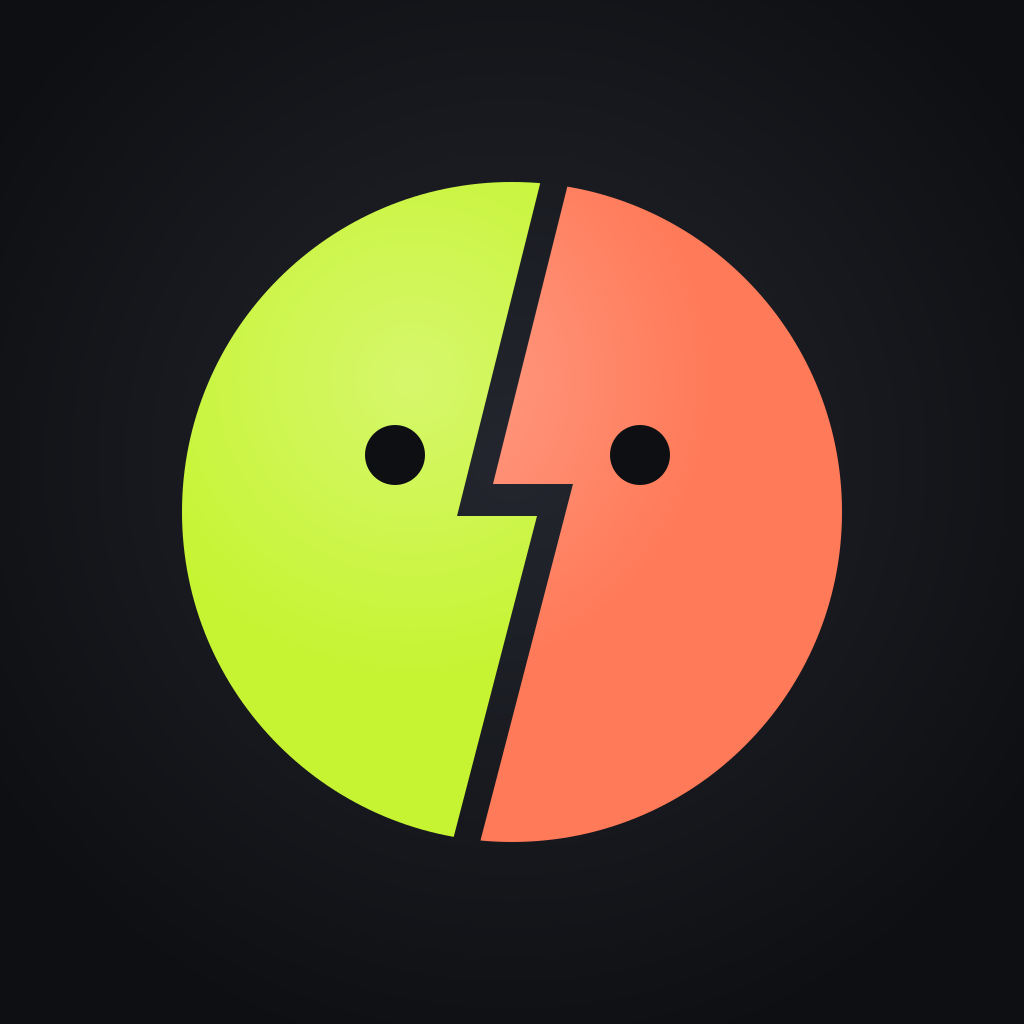
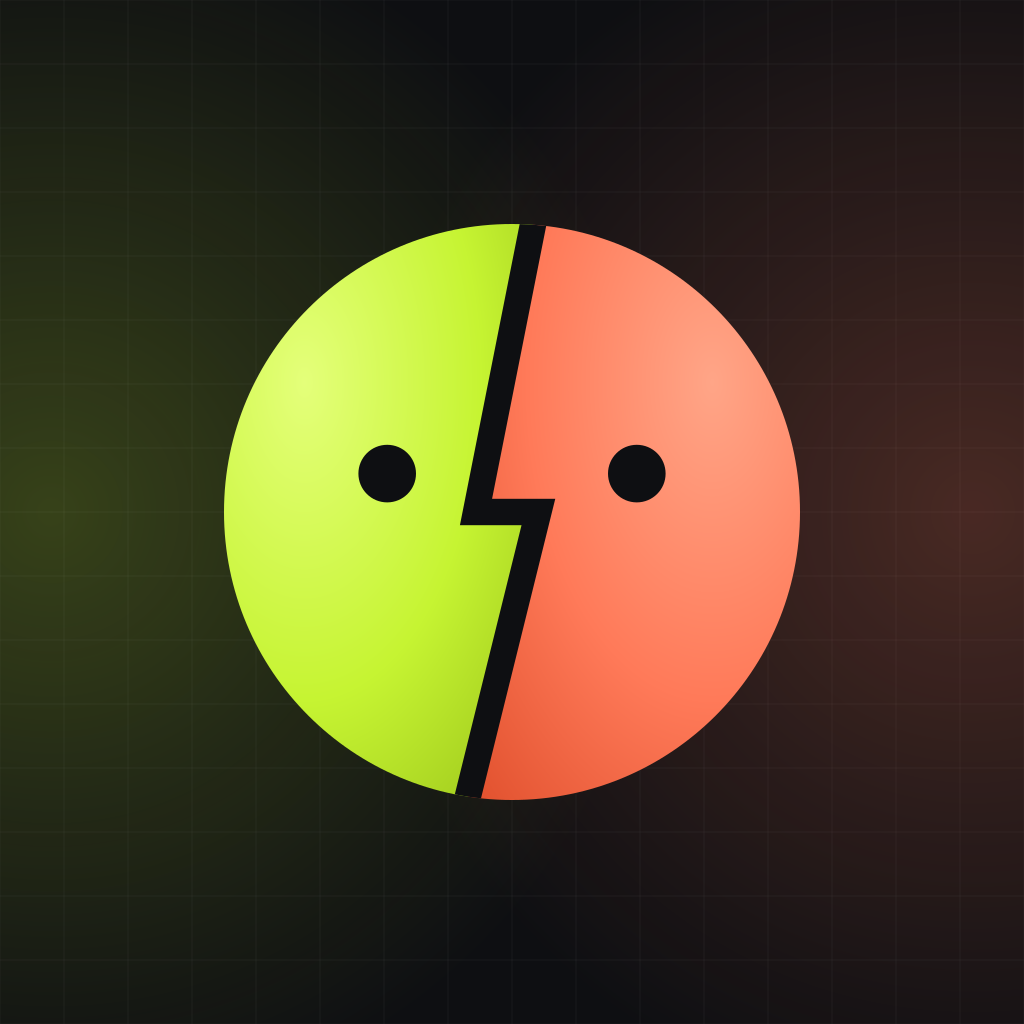
Nouveau nom Kontra, icône, écran d'accueil et animation d'ouverture
Claude-Session: https://claude.ai/code/session_01G7iX6MpbZnrFugrgUMHm6x

diff --git a/src/Intro.js b/src/Intro.js
@@ -5,9 +5,10 @@ import { colors } from './theme';
 const LEFT = require('../assets/intro-left.png');
 const RIGHT = require('../assets/intro-right.png');
 const BOLT = require('../assets/intro-bolt.png');
+const BG = require('../assets/intro-bg.png');
 
 // Animation d'ouverture : ta moitié (vert) et celle du rival (corail) s'entrechoquent,
-// un éclair jaillit, puis le nom de l'app apparaît. Environ 2 secondes.
+// un éclair jaillit, puis le nom de l'app (Kontra) apparaît. Environ 2 secondes.
 export default function Intro({ onDone }) {
   const { width } = useWindowDimensions();
   const size = Math.min(width * 0.72, 320);
@@ -17,9 +18,11 @@ export default function Intro({ onDone }) {
   const pulse = useRef(new Animated.Value(1)).current;
   const word = useRef(new Animated.Value(0)).current;
   const fade = useRef(new Animated.Value(1)).current;
+  const bgIn = useRef(new Animated.Value(0)).current;
 
   useEffect(() => {
     const anim = Animated.sequence([
+      Animated.timing(bgIn, { toValue: 1, duration: 260, useNativeDriver: true }),
       Animated.timing(slide, { toValue: 1, duration: 520, easing: Easing.in(Easing.cubic), useNativeDriver: true }),
       Animated.parallel([
         Animated.sequence([
@@ -48,6 +51,7 @@ export default function Intro({ onDone }) {
 
   return (
     <Animated.View style={[StyleSheet.absoluteFill, styles.root, { opacity: fade }]} pointerEvents="none">
+      <Animated.Image source={BG} resizeMode="cover" style={[StyleSheet.absoluteFill, { width: '100%', height: '100%', opacity: bgIn }]} />
       <Animated.View style={{ width: size, height: size, transform: [{ scale: pulse }] }}>
         <Animated.Image source={LEFT} style={[styles.img, { transform: [{ translateX: leftX }, { rotate: tilt }] }]} />
         <Animated.Image source={RIGHT} style={[styles.img, { transform: [{ translateX: rightX }, { rotate: tiltR }] }]} />
@@ -55,9 +59,9 @@ export default function Intro({ onDone }) {
       </Animated.View>
       <Animated.View style={{ alignItems: 'center', opacity: word, transform: [{ translateY: wordY }] }}>
         <Text style={styles.word}>
-          Pique<Text style={{ color: colors.me }}>Miroir</Text>
+          KON<Text style={{ color: colors.rival }}>TRA</Text>
         </Text>
-        <Text style={styles.tag}>Bats ton rival. Chaque jour.</Text>
+        <Text style={styles.tag}>Ton rival IA. Chaque jour.</Text>
       </Animated.View>
     </Animated.View>
   );
@@ -66,6 +70,6 @@ export default function Intro({ onDone }) {
 const styles = StyleSheet.create({
   root: { backgroundColor: colors.bg, alignItems: 'center', justifyContent: 'center', zIndex: 100 },
   img: { position: 'absolute', width: '100%', height: '100%' },
-  word: { color: '#F2F3F5', fontSize: 40, fontWeight: '900', letterSpacing: -1, marginTop: 8 },
+  word: { color: '#F2F3F5', fontSize: 46, fontWeight: '900', letterSpacing: 6, marginTop: 12 },
   tag: { color: colors.muted, fontSize: 16, fontWeight: '600', marginTop: 6 },
 });

diff --git a/src/screens/OnboardingScreen.js b/src/screens/OnboardingScreen.js
@@ -1,14 +1,17 @@
 import { useEffect, useState } from 'react';
-import { ActivityIndicator, KeyboardAvoidingView, Platform, Pressable, ScrollView, Text, TextInput, View } from 'react-native';
+import { ActivityIndicator, Image, KeyboardAvoidingView, Platform, Pressable, ScrollView, Text, TextInput, View } from 'react-native';
 import { colors } from '../theme';
 import { PrimaryButton, SecondaryButton, styles as ui } from '../components';
 import { GOALS, LB_PER_KG, LEVELS, RIVAL_NAMES, TONES, computeGoals } from '../profile';
 import { say } from '../rival';
 
+const WELCOME = require('../../assets/welcome.png');
+
 const STEPS = ['name', 'goal', 'weight', 'level', 'rival', 'creating', 'ready'];
 
 export default function OnboardingScreen({ initial, onDone, onCancel }) {
   const [step, setStep] = useState(0);
+  const [welcome, setWelcome] = useState(!initial); // écran d'accueil : seulement à la première ouverture
   const [name, setName] = useState(initial?.name ?? '');
   const [goal, setGoal] = useState(initial?.goal ?? null);
   const [unit, setUnit] = useState(initial?.unit ?? 'kg');
@@ -45,6 +48,8 @@ export default function OnboardingScreen({ initial, onDone, onCancel }) {
   const next = () => setStep((s) => s + 1);
   const back = () => (step === 0 ? onCancel?.() : setStep((s) => s - 1));
   const questionCount = 5;
+
+  if (welcome) return <Welcome onStart={() => setWelcome(false)} />;
 
   return (
     <KeyboardAvoidingView style={{ flex: 1 }} behavior={Platform.OS === 'ios' ? 'padding' : undefined}>
@@ -199,6 +204,27 @@ const inputStyle = {
   fontSize: 18,
   paddingHorizontal: 16,
 };
+
+function Welcome({ onStart }) {
+  return (
+    <ScrollView contentContainerStyle={{ flexGrow: 1, padding: 24, gap: 22, justifyContent: 'center' }}>
+      <Image
+        source={WELCOME}
+        style={{ width: '100%', aspectRatio: 1080 / 1000, borderRadius: 28 }}
+        accessibilityLabel="Toi contre ton rival IA"
+      />
+      <View style={{ gap: 10 }}>
+        <Text style={{ color: colors.me, fontSize: 13, fontWeight: '800', letterSpacing: 2 }}>KONTRA</Text>
+        <Text style={[ui.title, { fontSize: 32, lineHeight: 38 }]}>Ton rival IA t'attend.</Text>
+        <Text style={{ color: colors.soft, fontSize: 16, lineHeight: 23 }}>
+          Chaque jour, un duel : séance, protéines, pas. Bats-le, ou il te le rappellera.
+        </Text>
+      </View>
+      <PrimaryButton label="Créer mon rival" onPress={onStart} />
+      <Text style={{ color: colors.muted, fontSize: 13, textAlign: 'center' }}>1 minute · sans compte</Text>
+    </ScrollView>
+  );
+}
 
 function Question({ title, hint, children }) {
   return (

diff --git a/src/screens/WeekScreen.js b/src/screens/WeekScreen.js
@@ -17,7 +17,7 @@ export default function WeekScreen({ week, lastWeek }) {
   const remaining = week.days.filter((d) => d.state === 'future' || d.state === 'today').length;
   const share = () =>
     Share.share({
-      message: `Cette semaine sur PiqueMiroir : ${week.me}–${week.nova} contre mon rival IA ${RIVAL_NAME}. Et toi, tu tiendrais ?`,
+      message: `Cette semaine sur Kontra : ${week.me}–${week.nova} contre mon rival IA ${RIVAL_NAME}. Et toi, tu tiendrais ?`,
     });
 
   const headline = leading
@@ -39,7 +39,7 @@ export default function WeekScreen({ week, lastWeek }) {
 
       <View style={{ borderRadius: 28, backgroundColor: colors.me, padding: 24, gap: 18 }}>
         <View style={{ flexDirection: 'row', justifyContent: 'space-between', alignItems: 'center' }}>
-          <Text style={{ fontWeight: '800', fontSize: 15, color: colors.bg }}>PiqueMiroir</Text>
+          <Text style={{ fontWeight: '800', fontSize: 15, color: colors.bg }}>Kontra</Text>
           <Text style={{ fontSize: 12, fontWeight: '700', color: colors.bg, backgroundColor: 'rgba(14,15,18,0.12)', borderRadius: 999, paddingHorizontal: 10, paddingVertical: 5, overflow: 'hidden' }}>
             {remaining === 0 ? 'Semaine terminée' : 'Semaine en cours'}
           </Text>

diff --git a/src/screens/PaywallScreen.js b/src/screens/PaywallScreen.js
@@ -72,7 +72,7 @@ export default function PaywallScreen({ onReset, onEditProfile }) {
         </View>
       ) : (
         <>
-          <Title kicker="PiqueMiroir Premium">{`${RIVAL_NAME} t'attend.\nEt toi ?`}</Title>
+          <Title kicker="Kontra Premium">{`${RIVAL_NAME} t'attend.\nEt toi ?`}</Title>
           <Text style={{ color: colors.soft, fontSize: 15, lineHeight: 21 }}>
             Version gratuite : {FREE_PHOTOS_PER_DAY} analyses de repas par jour. Premium enlève toutes les limites.
           </Text>

diff --git a/App.js b/App.js
@@ -47,8 +47,8 @@ function buildWeek(state, todayKey, refKey = todayKey) {
   };
 }
 
-// Après plus d'une minute en arrière-plan, l'animation d'ouverture est rejouée.
-const REPLAY_AFTER_MS = 60 * 1000;
+// Après plus de 15 secondes en arrière-plan, l'animation d'ouverture est rejouée.
+const REPLAY_AFTER_MS = 15 * 1000;
 
 export default function App() {
   const [intro, setIntro] = useState(true);

diff --git a/README.md b/README.md
@@ -1,4 +1,4 @@
-# PiqueMiroir — prototype Expo
+# Kontra (ex-PiqueMiroir)
 
 App de remise en forme où tu affrontes **Nova**, un rival IA, chaque jour : séance d'exercices en vidéo, protéines (photo des repas) et pas.
 
